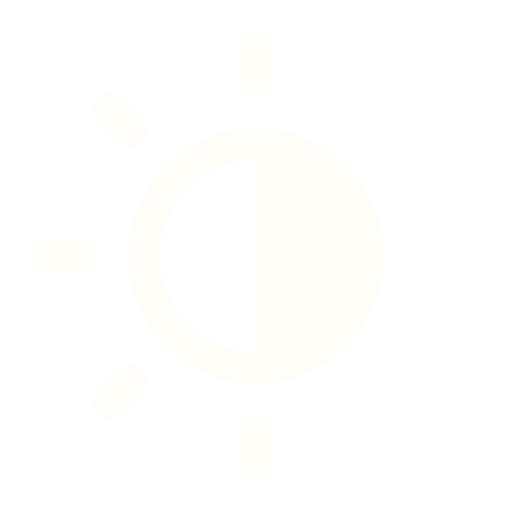
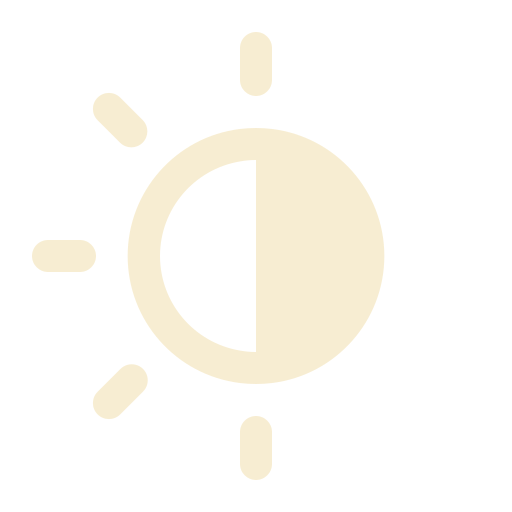
Styled volume toggles for dark theme

diff --git a/assets/script.js b/assets/script.js
@@ -15,6 +15,18 @@ function changeImage() {
     }  else if (document.getElementById("ld-theme").src.endsWith('day_in_night.png') == true) {
         document.getElementById("ld-theme").src = "assets/images/night_in_day.png";
     }
+
+    if (document.getElementById("ld-vol").src.endsWith('volume.png') == true) {
+        document.getElementById("ld-vol").src = "assets/images/volume_light.png";
+    }  else if (document.getElementById("ld-vol").src.endsWith('volume_light.png') == true) {
+        document.getElementById("ld-vol").src = "assets/images/volume.png";
+    }
+
+    if (document.getElementById("ld-vol-mute").src.endsWith('volume-mute.png') == true) {
+        document.getElementById("ld-vol-mute").src = "assets/images/volume-mute_light.png";
+    }  else if (document.getElementById("ld-vol-mute").src.endsWith('volume-mute_light.png') == true) {
+        document.getElementById("ld-vol-mute").src = "assets/images/volume-mute.png";
+    }
 }
 
 

diff --git a/index.html b/index.html
@@ -14,8 +14,8 @@
         <div class="toggles">
           <img class ="light_dark" id="ld-theme" src="assets/images/night_in_day.png" onclick="lightDark();changeImage();" alt="toggle"/>
             <div class="vol-toggles">
-              <img class="vol-icon" src="assets/images/volume.png" alt="volume up"/>
-              <img class="vol-icon" src="assets/images/volume-mute.png" alt="volume mute"/>
+              <img class="vol-icon" id="ld-vol" src="assets/images/volume.png" alt="volume up"/>
+              <img class="vol-icon" id="ld-vol-mute" src="assets/images/volume-mute.png" alt="volume mute"/>
           </div>
         </div>  
     </div>

diff --git a/assets/style.css b/assets/style.css
@@ -16,7 +16,8 @@ body {
 .dark-mode {
     background-image: url("../assets/images/night_scene.png");
     height: 100vh;
-    color: #f7edd2;
+    background-size: cover;
+    color: #edc88c;
 }
 
 .gamescreen-top {
@@ -162,10 +163,9 @@ img {
 }
 
 body.dark-mode .digits {
-    color: #f7edd2;
+    color: #edc88c;
 }
 
-body.dark-mode 
 
 body.dark-mode .timer {
     background-color: #382a25;
@@ -193,3 +193,4 @@ body.dark-mode .moves {
     9px 8px 0px #f7edd2,8px 9px 0px #f7edd2;
 
 }
+
